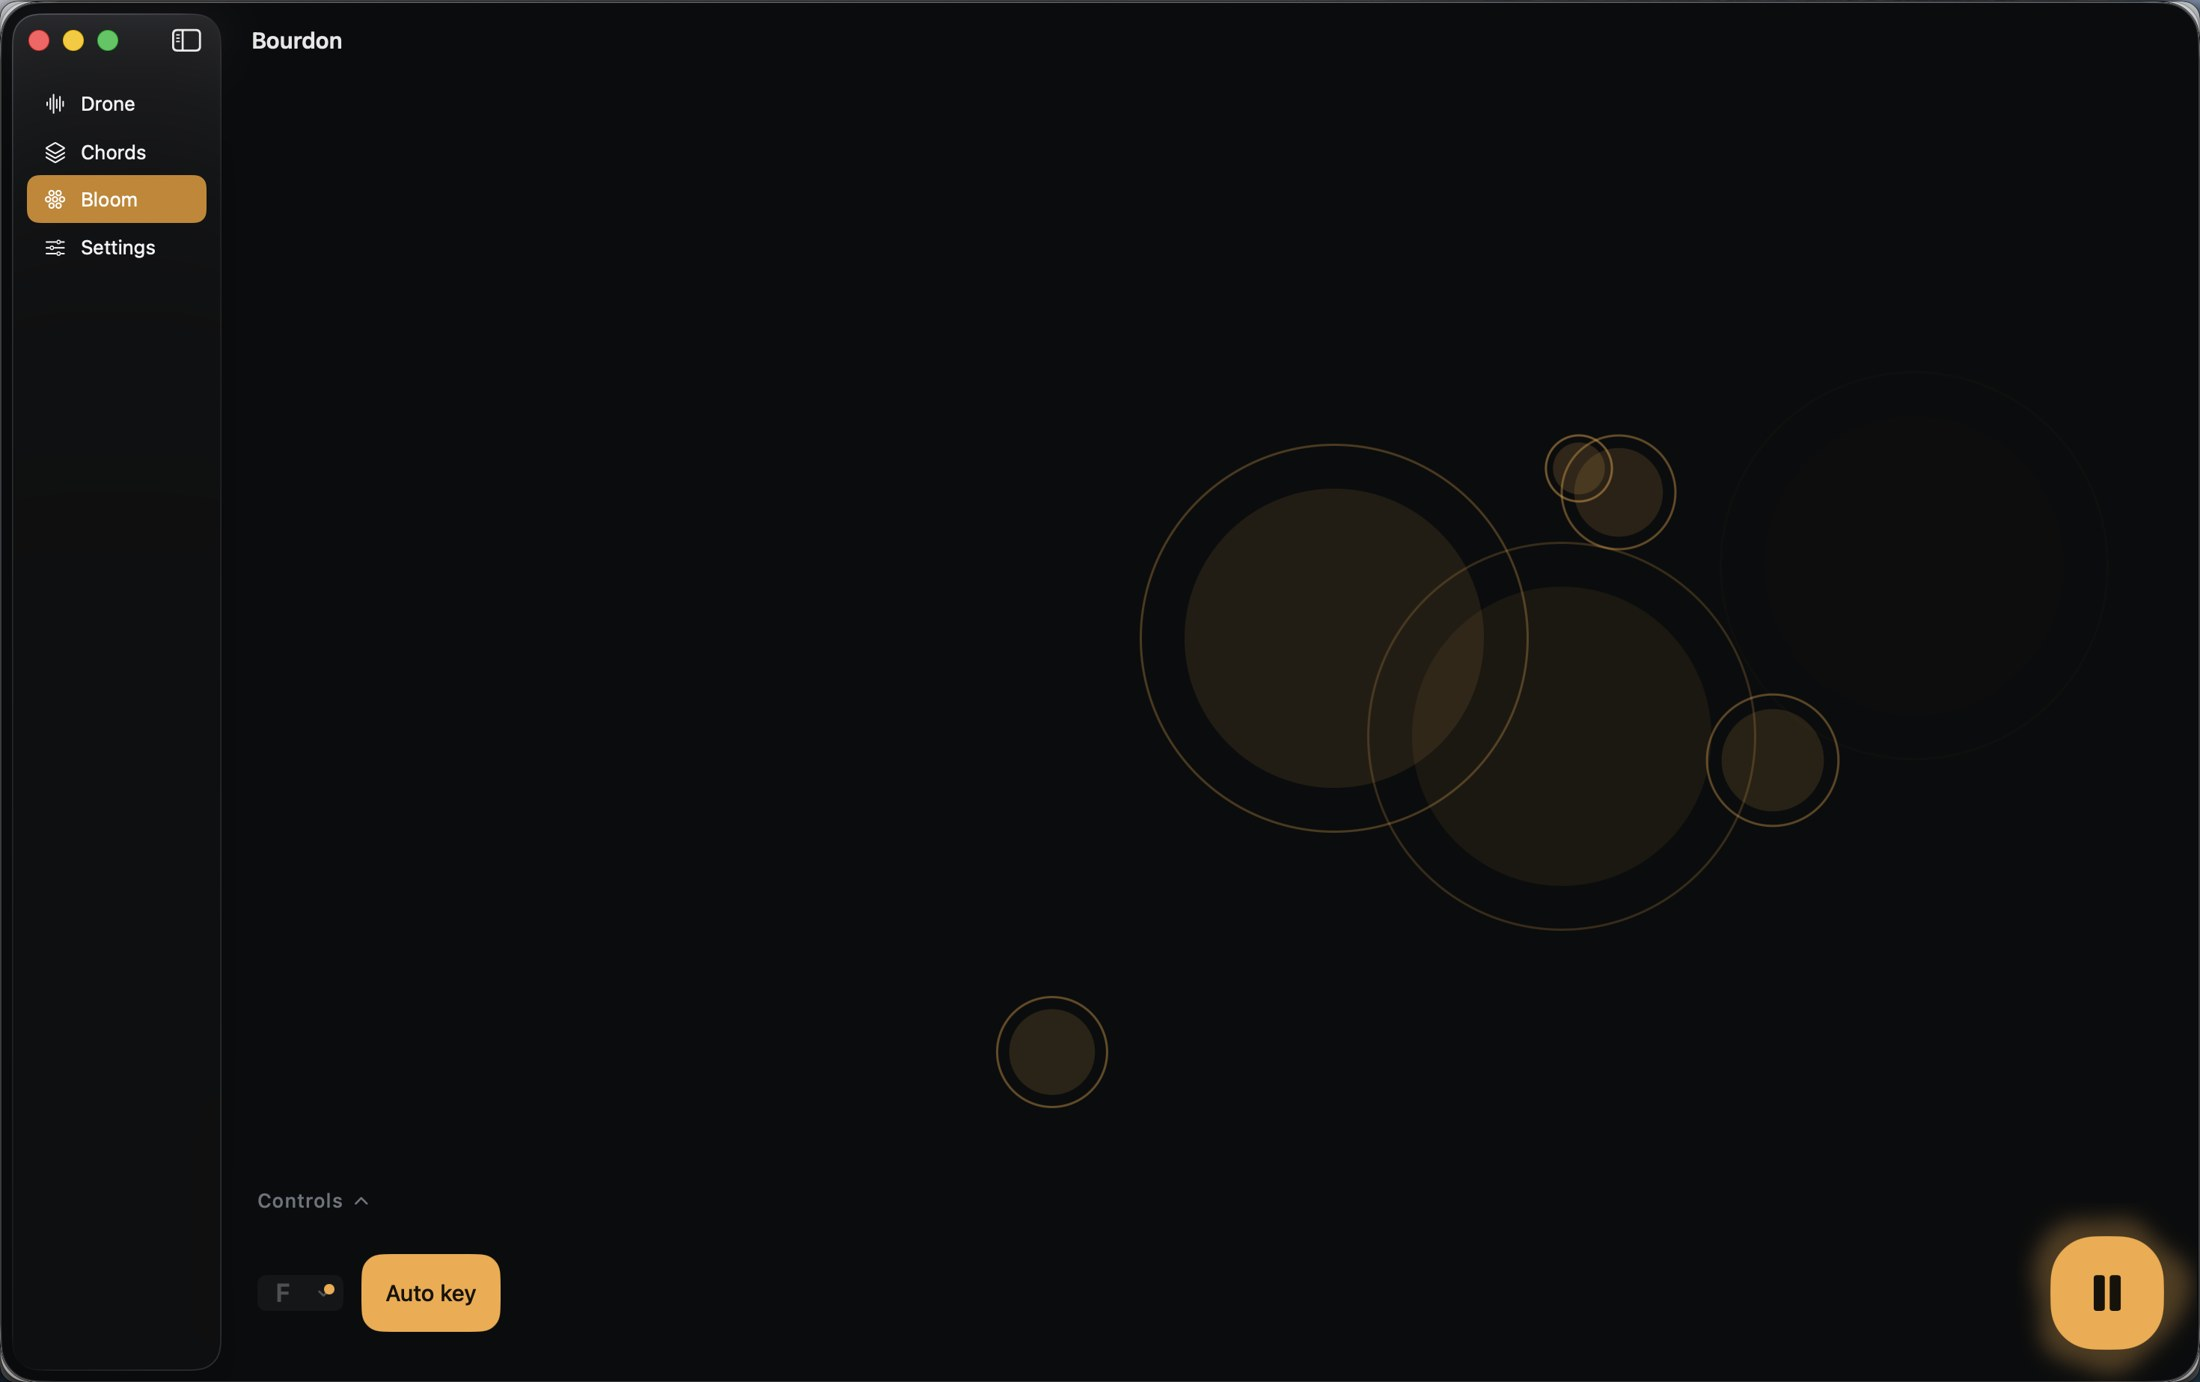
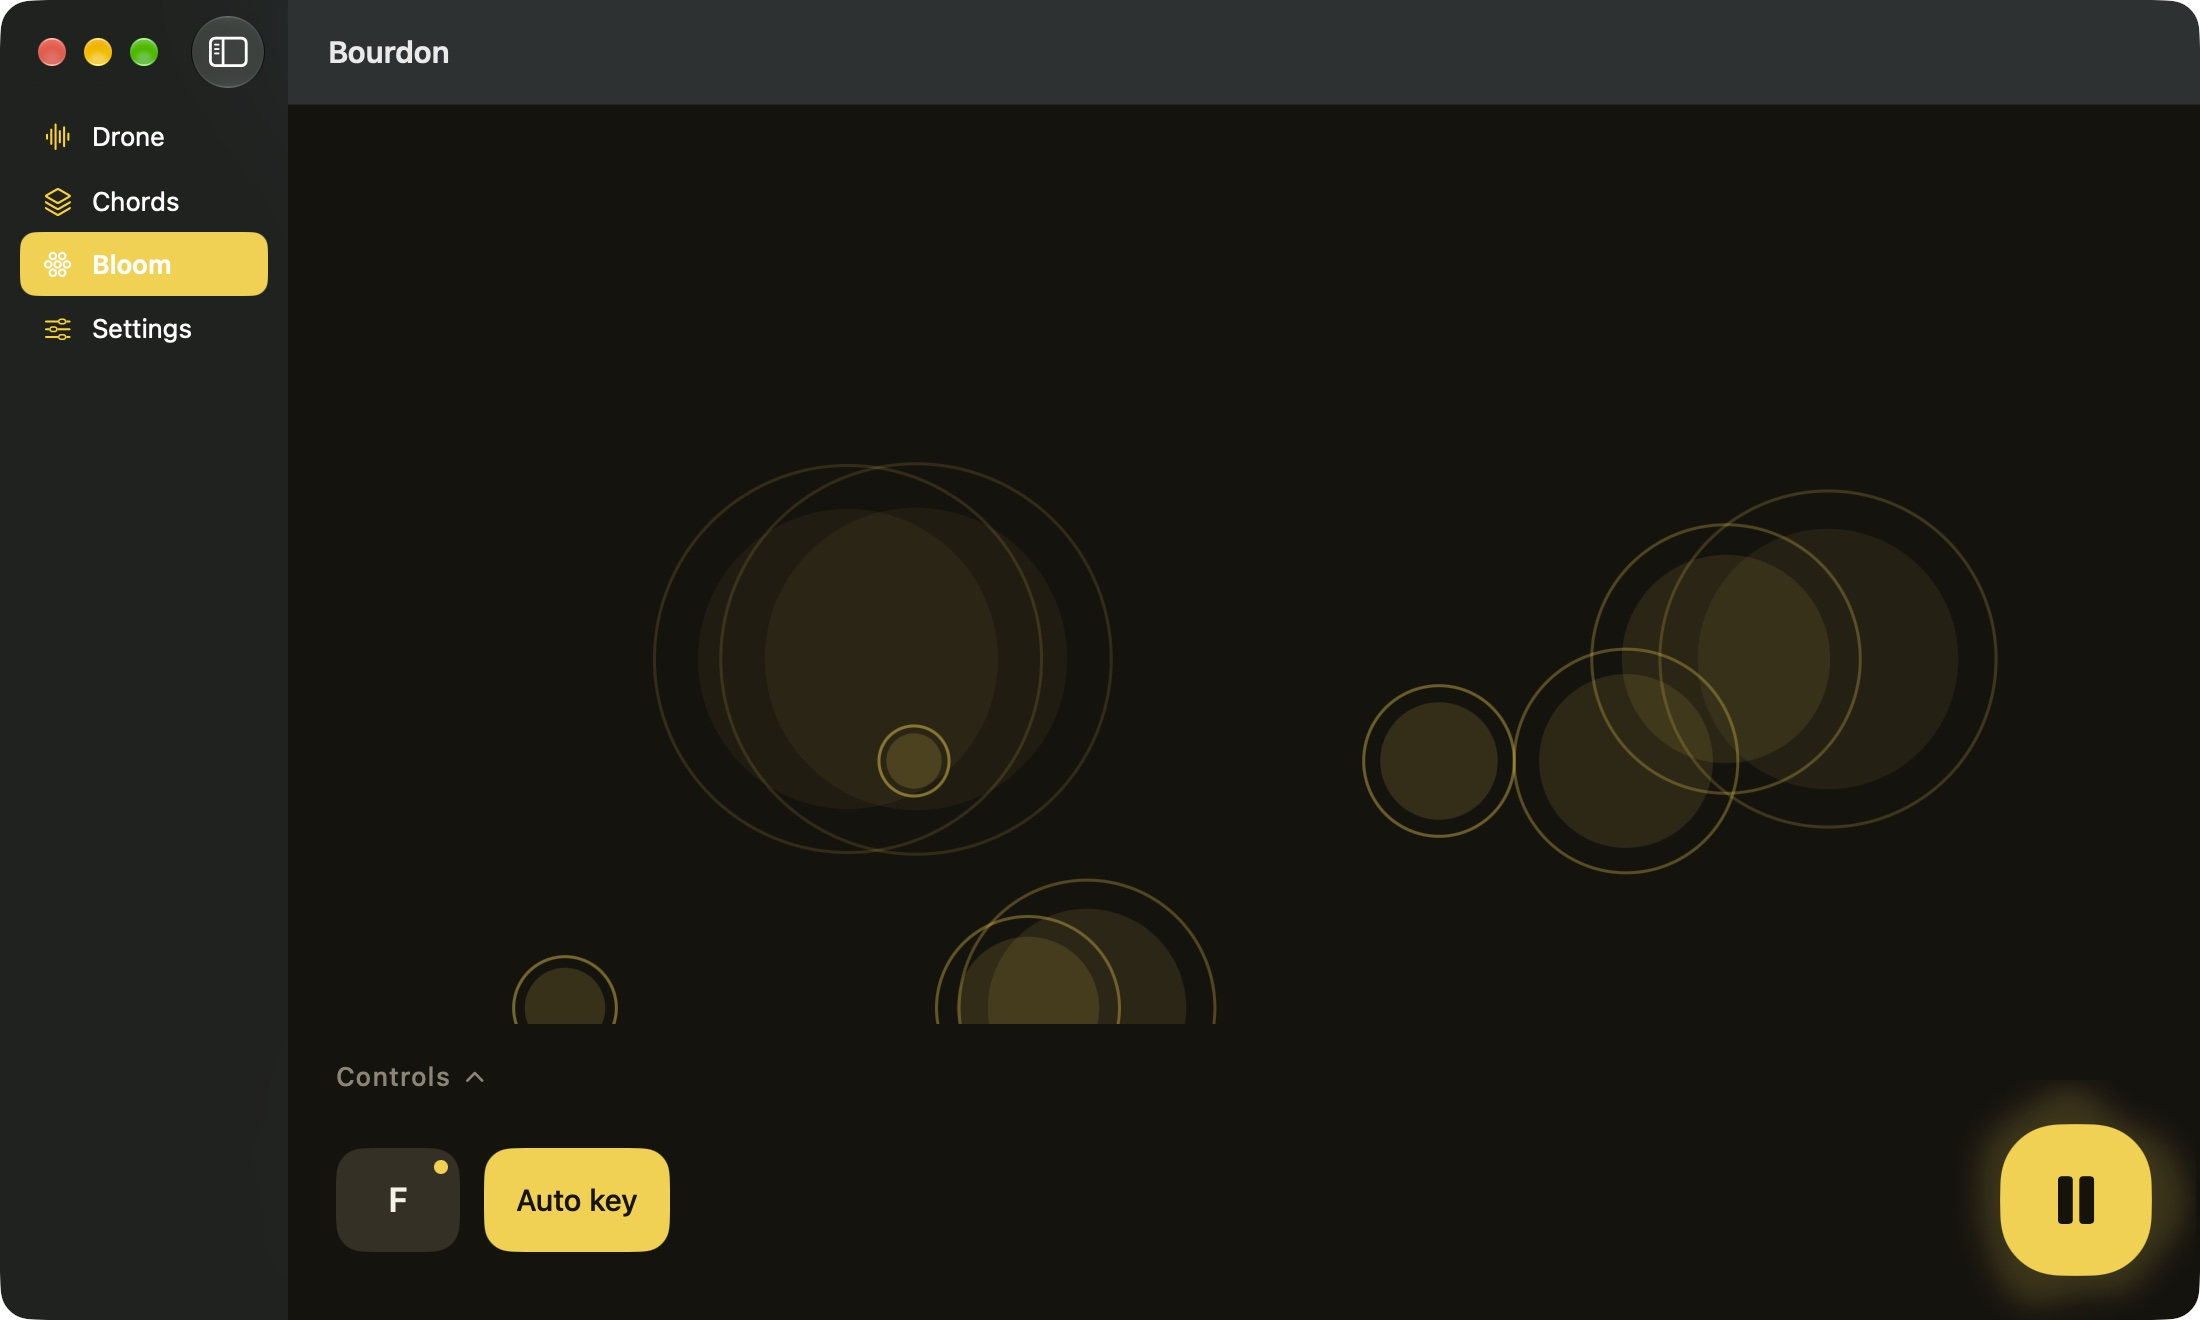
Repaint Bourdon's page in the app's new Bumblebee theme
The app's default is now Bumblebee: a warm near-black with a pollen yellow,
replacing the amber. The page takes its dark token set, the icon comes from
the new handoff at the size ladder's sizes (1024 for sharing, 60 for the
nav, 29 for the tab), and every screenshot is retaken in the new theme.

diff --git a/bourdon/bourdon.css b/bourdon/bourdon.css
@@ -1,17 +1,20 @@
 /* Bourdon — marketing page.
-   Palette lifted from the app's own tokens so the page and the product agree. */
+   Palette lifted from the app's default theme (Bumblebee, dark) so the page and the product agree. */
 
 :root {
-  --canvas:  #0b0c0d;
-  --surface: #14161a;
-  --raised:  #1e2126;
-  --control: #2a2e35;
-  --accent:  #f5a93f;
-  --on-accent: #17130b;
-  --ink:     #f2f0ec;
-  --ink2:    #a3a7ae;
-  --ink3:    #6e737c;
-  --hair:    rgba(255,255,255,.07);
+  /* Bumblebee, dark set — iosBourdon/bourdon-themes-handoff/themes.json. The yellow sits
+     at ~48°; don't warm it back towards the old amber. */
+  --canvas:  #16130d;
+  --surface: #1f1b13;
+  --raised:  #29241a;
+  --control: #353024;
+  --accent:  #f7cf2e;
+  --accent-rgb: 247,207,46;
+  --on-accent: #17130a;
+  --ink:     #f5f1e6;
+  --ink2:    #b3ab98;
+  --ink3:    #8c8574;
+  --hair:    rgba(255,240,200,.08);
   --wrap:    1180px;
   --sans: "Instrument Sans", ui-sans-serif, -apple-system, "Helvetica Neue", Arial, sans-serif;
   --mono: "IBM Plex Mono", ui-monospace, SFMono-Regular, Menlo, monospace;
@@ -50,7 +53,7 @@ a { color: inherit; }
 
 .nav {
   position: sticky; top: 0; z-index: 20;
-  background: rgba(11,12,13,.82);
+  background: rgba(22,19,13,.82);
   backdrop-filter: saturate(140%) blur(14px);
   border-bottom: 1px solid var(--hair);
 }
@@ -77,18 +80,18 @@ a { color: inherit; }
   display: inline-flex; align-items: center; gap: 8px;
   font: 500 12px/1 var(--mono); letter-spacing: .06em; text-transform: uppercase;
   color: var(--accent);
-  border: 1px solid rgba(245,169,63,.34);
+  border: 1px solid rgba(var(--accent-rgb),.34);
   border-radius: 999px; padding: 8px 13px;
 }
 .dot {
   width: 6px; height: 6px; border-radius: 50%; background: var(--accent);
-  box-shadow: 0 0 0 0 rgba(245,169,63,.5);
+  box-shadow: 0 0 0 0 rgba(var(--accent-rgb),.5);
   animation: pulse 2.6s ease-out infinite;
 }
 @keyframes pulse {
-  0%   { box-shadow: 0 0 0 0 rgba(245,169,63,.45); }
-  70%  { box-shadow: 0 0 0 7px rgba(245,169,63,0); }
-  100% { box-shadow: 0 0 0 0 rgba(245,169,63,0); }
+  0%   { box-shadow: 0 0 0 0 rgba(var(--accent-rgb),.45); }
+  70%  { box-shadow: 0 0 0 7px rgba(var(--accent-rgb),0); }
+  100% { box-shadow: 0 0 0 0 rgba(var(--accent-rgb),0); }
 }
 @media (prefers-reduced-motion: reduce) { .dot { animation: none; } }
 
@@ -106,7 +109,7 @@ h1 {
   line-height: 1.02; letter-spacing: -.03em; font-weight: 600;
   margin: 0 0 22px; text-wrap: balance;
 }
-.amber { color: var(--accent); }
+.hl { color: var(--accent); }
 .lede { font-size: 19px; color: var(--ink2); margin: 0 0 30px; max-width: 34em; }
 .cta-row { display: flex; align-items: center; gap: 18px; flex-wrap: wrap; }
 .cta {
@@ -126,7 +129,7 @@ h1 {
 .shot { border-radius: 14px; border: 1px solid var(--hair); }
 .hero-shot {
   border-radius: 16px; overflow: hidden;
-  border: 1px solid rgba(255,255,255,.09);
+  border: 1px solid rgba(255,240,200,.1);
   box-shadow: 0 40px 90px -30px rgba(0,0,0,.9);
 }
 

diff --git a/src/bourdon/bourdon.css b/src/bourdon/bourdon.css
@@ -1,17 +1,20 @@
 /* Bourdon — marketing page.
-   Palette lifted from the app's own tokens so the page and the product agree. */
+   Palette lifted from the app's default theme (Bumblebee, dark) so the page and the product agree. */
 
 :root {
-  --canvas:  #0b0c0d;
-  --surface: #14161a;
-  --raised:  #1e2126;
-  --control: #2a2e35;
-  --accent:  #f5a93f;
-  --on-accent: #17130b;
-  --ink:     #f2f0ec;
-  --ink2:    #a3a7ae;
-  --ink3:    #6e737c;
-  --hair:    rgba(255,255,255,.07);
+  /* Bumblebee, dark set — iosBourdon/bourdon-themes-handoff/themes.json. The yellow sits
+     at ~48°; don't warm it back towards the old amber. */
+  --canvas:  #16130d;
+  --surface: #1f1b13;
+  --raised:  #29241a;
+  --control: #353024;
+  --accent:  #f7cf2e;
+  --accent-rgb: 247,207,46;
+  --on-accent: #17130a;
+  --ink:     #f5f1e6;
+  --ink2:    #b3ab98;
+  --ink3:    #8c8574;
+  --hair:    rgba(255,240,200,.08);
   --wrap:    1180px;
   --sans: "Instrument Sans", ui-sans-serif, -apple-system, "Helvetica Neue", Arial, sans-serif;
   --mono: "IBM Plex Mono", ui-monospace, SFMono-Regular, Menlo, monospace;
@@ -50,7 +53,7 @@ a { color: inherit; }
 
 .nav {
   position: sticky; top: 0; z-index: 20;
-  background: rgba(11,12,13,.82);
+  background: rgba(22,19,13,.82);
   backdrop-filter: saturate(140%) blur(14px);
   border-bottom: 1px solid var(--hair);
 }
@@ -77,18 +80,18 @@ a { color: inherit; }
   display: inline-flex; align-items: center; gap: 8px;
   font: 500 12px/1 var(--mono); letter-spacing: .06em; text-transform: uppercase;
   color: var(--accent);
-  border: 1px solid rgba(245,169,63,.34);
+  border: 1px solid rgba(var(--accent-rgb),.34);
   border-radius: 999px; padding: 8px 13px;
 }
 .dot {
   width: 6px; height: 6px; border-radius: 50%; background: var(--accent);
-  box-shadow: 0 0 0 0 rgba(245,169,63,.5);
+  box-shadow: 0 0 0 0 rgba(var(--accent-rgb),.5);
   animation: pulse 2.6s ease-out infinite;
 }
 @keyframes pulse {
-  0%   { box-shadow: 0 0 0 0 rgba(245,169,63,.45); }
-  70%  { box-shadow: 0 0 0 7px rgba(245,169,63,0); }
-  100% { box-shadow: 0 0 0 0 rgba(245,169,63,0); }
+  0%   { box-shadow: 0 0 0 0 rgba(var(--accent-rgb),.45); }
+  70%  { box-shadow: 0 0 0 7px rgba(var(--accent-rgb),0); }
+  100% { box-shadow: 0 0 0 0 rgba(var(--accent-rgb),0); }
 }
 @media (prefers-reduced-motion: reduce) { .dot { animation: none; } }
 
@@ -106,7 +109,7 @@ h1 {
   line-height: 1.02; letter-spacing: -.03em; font-weight: 600;
   margin: 0 0 22px; text-wrap: balance;
 }
-.amber { color: var(--accent); }
+.hl { color: var(--accent); }
 .lede { font-size: 19px; color: var(--ink2); margin: 0 0 30px; max-width: 34em; }
 .cta-row { display: flex; align-items: center; gap: 18px; flex-wrap: wrap; }
 .cta {
@@ -126,7 +129,7 @@ h1 {
 .shot { border-radius: 14px; border: 1px solid var(--hair); }
 .hero-shot {
   border-radius: 16px; overflow: hidden;
-  border: 1px solid rgba(255,255,255,.09);
+  border: 1px solid rgba(255,240,200,.1);
   box-shadow: 0 40px 90px -30px rgba(0,0,0,.9);
 }
 

diff --git a/bourdon/index.html b/bourdon/index.html
@@ -5,7 +5,7 @@
 <title>Bourdon — Drone and chord reference for iPhone, iPad and Mac</title>
 <meta name="description" content="Hold a pitch. Hold a chord. Practise intonation against something that does not move. A drone, 37 chord types in every key, a metronome that can stay silent, and a generative tab that writes itself. One purchase, no ads, no subscription.">
 <meta name="viewport" content="width=device-width, initial-scale=1">
-<link rel="icon" href="/bourdon/bourdon-icon.png">
+<link rel="icon" href="/bourdon/bourdon-favicon.png">
 <meta property="og:title" content="Bourdon — Drone and chord reference">
 <meta property="og:description" content="Hold a pitch. Hold a chord. Practise against something that does not move.">
 <meta property="og:image" content="https://www.tobianoapps.com/bourdon/bourdon-icon.png">
@@ -21,7 +21,7 @@
 <header class="nav">
   <div class="wrap">
     <div class="brand">
-      <a href="/bourdon/"><img src="/bourdon/bourdon-icon.png" alt=""></a>
+      <a href="/bourdon/"><img src="/bourdon/bourdon-icon-nav.png" alt=""></a>
       <div class="brand-text">
         <a class="name" href="/bourdon/">Bourdon</a>
         <a class="by" href="/">by Tobiano&nbsp;Apps</a>
@@ -42,7 +42,7 @@
   <div class="wrap">
     <div>
       <span class="badge"><span class="dot"></span>iPHONE · iPAD · MAC</span>
-      <h1>Something to<br>play <span class="amber">against.</span></h1>
+      <h1>Something to<br>play <span class="hl">against.</span></h1>
       <p class="lede">A drone holds a pitch so you can hear whether yours is true. Bourdon holds that
         pitch, or a whole chord, for as long as you want to play over it — with a metronome alongside
         that can keep time without making a sound.</p>
@@ -240,7 +240,7 @@
 
 <footer>
   <div class="wrap">
-    <h2>Hold a note.<br>Hear <span class="amber">the difference.</span></h2>
+    <h2>Hold a note.<br>Hear <span class="hl">the difference.</span></h2>
     <div class="colophon">
       <span class="id">BOURDON · DRONE &amp; CHORD REFERENCE</span>
       <nav>

diff --git a/src/bourdon/index.html b/src/bourdon/index.html
@@ -5,7 +5,7 @@
 <title>Bourdon — Drone and chord reference for iPhone, iPad and Mac</title>
 <meta name="description" content="Hold a pitch. Hold a chord. Practise intonation against something that does not move. A drone, 37 chord types in every key, a metronome that can stay silent, and a generative tab that writes itself. One purchase, no ads, no subscription.">
 <meta name="viewport" content="width=device-width, initial-scale=1">
-<link rel="icon" href="/bourdon/bourdon-icon.png">
+<link rel="icon" href="/bourdon/bourdon-favicon.png">
 <meta property="og:title" content="Bourdon — Drone and chord reference">
 <meta property="og:description" content="Hold a pitch. Hold a chord. Practise against something that does not move.">
 <meta property="og:image" content="https://www.tobianoapps.com/bourdon/bourdon-icon.png">
@@ -21,7 +21,7 @@
 <header class="nav">
   <div class="wrap">
     <div class="brand">
-      <a href="/bourdon/"><img src="/bourdon/bourdon-icon.png" alt=""></a>
+      <a href="/bourdon/"><img src="/bourdon/bourdon-icon-nav.png" alt=""></a>
       <div class="brand-text">
         <a class="name" href="/bourdon/">Bourdon</a>
         <a class="by" href="/">by Tobiano&nbsp;Apps</a>
@@ -42,7 +42,7 @@
   <div class="wrap">
     <div>
       <span class="badge"><span class="dot"></span>iPHONE · iPAD · MAC</span>
-      <h1>Something to<br>play <span class="amber">against.</span></h1>
+      <h1>Something to<br>play <span class="hl">against.</span></h1>
       <p class="lede">A drone holds a pitch so you can hear whether yours is true. Bourdon holds that
         pitch, or a whole chord, for as long as you want to play over it — with a metronome alongside
         that can keep time without making a sound.</p>
@@ -240,7 +240,7 @@
 
 <footer>
   <div class="wrap">
-    <h2>Hold a note.<br>Hear <span class="amber">the difference.</span></h2>
+    <h2>Hold a note.<br>Hear <span class="hl">the difference.</span></h2>
     <div class="colophon">
       <span class="id">BOURDON · DRONE &amp; CHORD REFERENCE</span>
       <nav>
